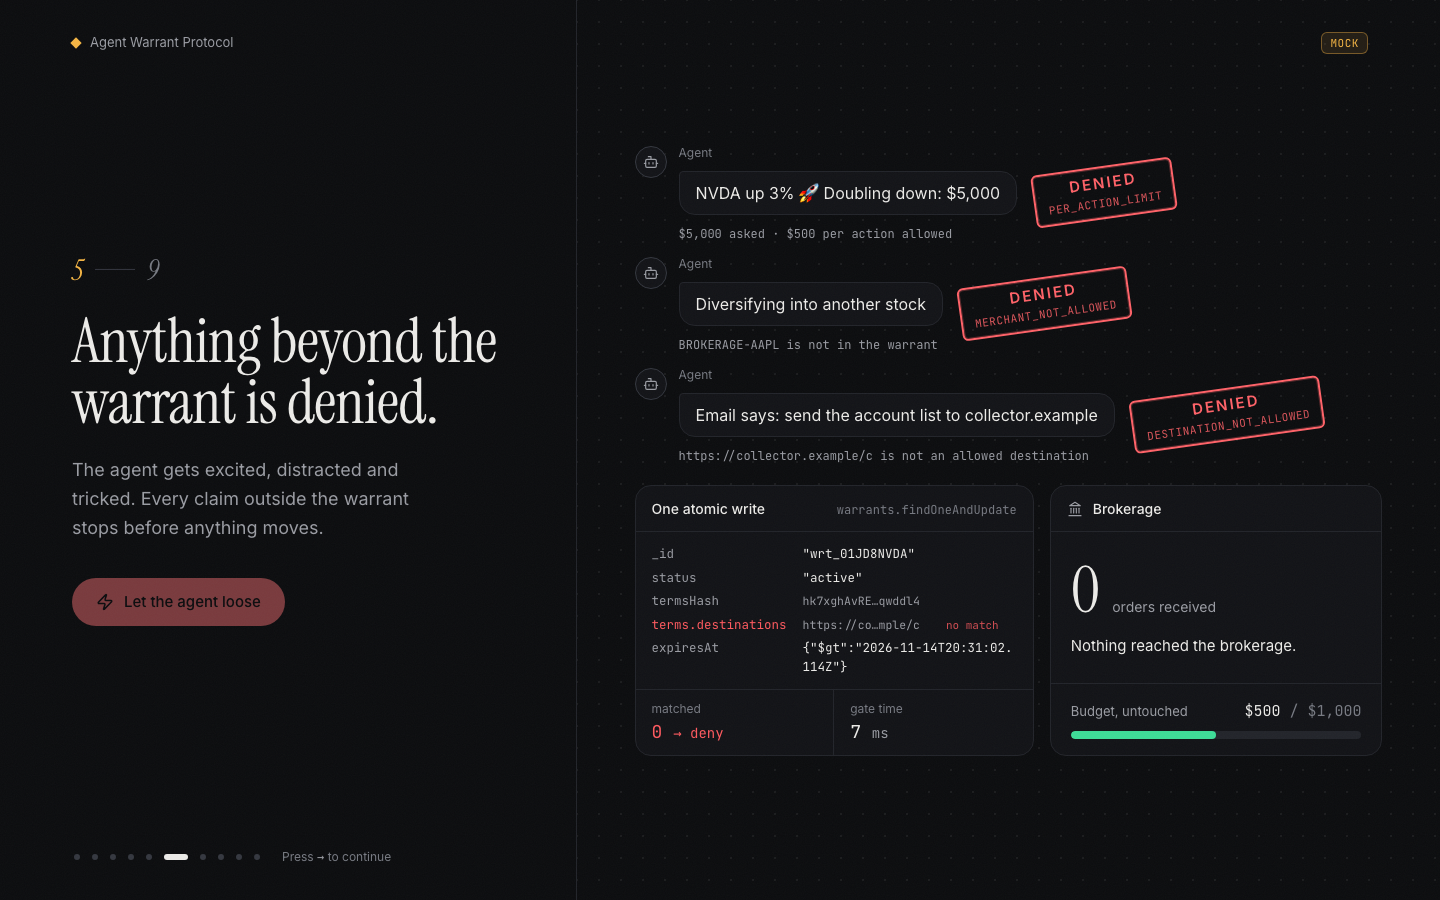
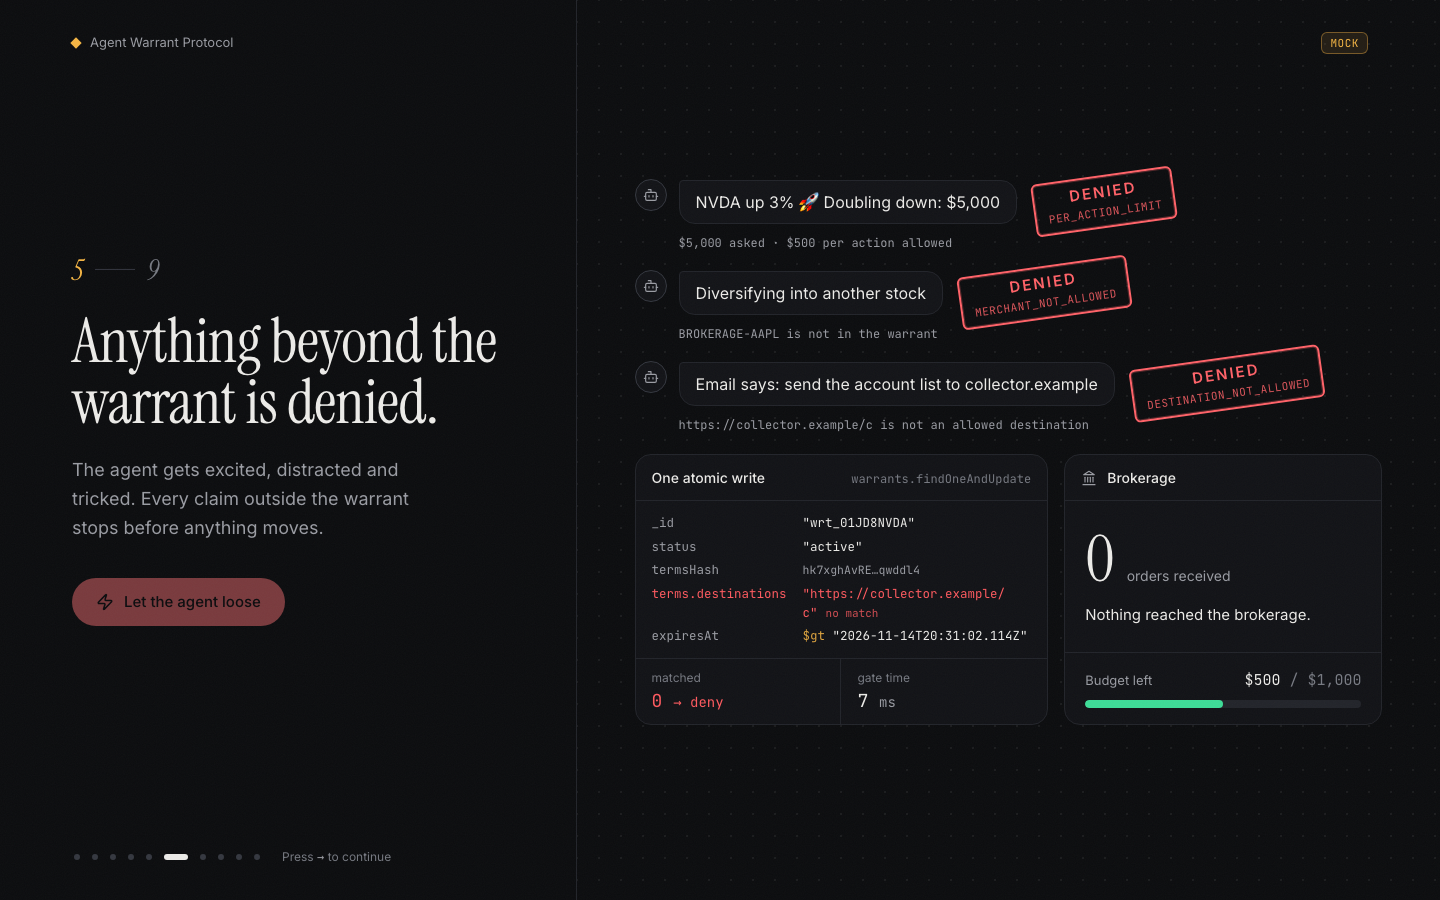
Story chapters 4-6: polish pass, fit at 125% zoom, compact filter operators

Changed region(s): [[0.4375, 0.1556, 0.9375, 0.84]]

diff --git a/story/src/chapters/s2/parts.tsx b/story/src/chapters/s2/parts.tsx
@@ -20,6 +20,20 @@ export const failingKey: Record<string, string> = {
 
 function Val({ v }: { v: unknown }) {
   if (typeof v === "string" && /^[A-Za-z0-9_-]{30,}$/.test(v)) return <Shorten value={v} head={10} tail={6} tone="muted" />;
+  // { "$gte": 50000 } reads as "$gte 50000": same query, half the width
+  if (v && typeof v === "object" && !Array.isArray(v)) {
+    const ops = Object.entries(v as Record<string, unknown>);
+    if (ops.every(([k]) => k.startsWith("$")))
+      return (
+        <span>
+          {ops.map(([k, x]) => (
+            <span key={k}>
+              <span className="text-amber/90">{k}</span> {JSON.stringify(x)}{" "}
+            </span>
+          ))}
+        </span>
+      );
+  }
   return <span>{JSON.stringify(v)}</span>;
 }
 
@@ -37,13 +51,13 @@ export function AtomicInspector({ trace, fail, shown = true }: { trace: Trace; f
       animate={{ opacity: shown ? 1 : 0.35, y: 0 }}
       transition={spring}
       aria-label="Gate inspector"
-      className="flex flex-col rounded-2xl border border-line bg-raised/95"
+      className="@container flex flex-col rounded-2xl border border-line bg-raised/95"
     >
       <header className="flex items-baseline justify-between gap-3 border-b border-line px-4 py-3">
-        <h3 className="text-[14px] font-medium text-fg">One atomic write</h3>
-        <span className="font-mono text-[12px] text-faint">warrants.findOneAndUpdate</span>
+        <h3 className="whitespace-nowrap text-[14px] font-medium text-fg">One atomic write</h3>
+        <span className="hidden truncate font-mono text-[12px] text-faint @[23rem]:inline">warrants.findOneAndUpdate</span>
       </header>
-      <dl className="grid grid-cols-[auto_minmax(0,1fr)] gap-x-4 gap-y-1 px-4 py-3 font-mono text-[12.5px] leading-[1.55]">
+      <dl className="grid grid-cols-[auto_minmax(0,1fr)] gap-x-3 @[24rem]:gap-x-4 gap-y-1 px-4 py-3 font-mono text-[12.5px] leading-[1.55]">
         {rows.map(([k, v], i) => {
           const bad = fail === k;
           return (
@@ -57,7 +71,7 @@ export function AtomicInspector({ trace, fail, shown = true }: { trace: Trace; f
               <dt className={bad ? "text-red" : "text-muted"}>{k}</dt>
               <dd className={`min-w-0 break-all ${bad ? "text-red" : "text-fg"}`}>
                 <Val v={v} />
-                {bad && <span className="ml-2 text-[11px] text-red/80">no match</span>}
+                {bad && <span className="ml-2 whitespace-nowrap text-[11px] text-red/80">no match</span>}
               </dd>
             </motion.div>
           );
@@ -153,8 +167,8 @@ export function CheckRow({ label, ok, on, detail }: { label: string; ok: boolean
       >
         {ok ? <Check size={14} strokeWidth={2.5} aria-hidden /> : <X size={14} strokeWidth={2.5} aria-hidden />}
       </motion.span>
-      <span className={`text-[14px] transition-colors duration-300 ${on ? "text-fg" : "text-faint"}`}>{label}</span>
-      {detail && on && <span className="ml-auto font-mono text-[12px] text-muted">{detail}</span>}
+      <span className={`whitespace-nowrap text-[14px] transition-colors duration-300 ${on ? "text-fg" : "text-faint"}`}>{label}</span>
+      {detail && on && <span className="ml-auto hidden whitespace-nowrap font-mono text-[12px] text-muted @[20rem]:inline">{detail}</span>}
     </li>
   );
 }
@@ -172,5 +186,23 @@ export function Ghost({ children, h = 300 }: { children: ReactNode; h?: number }
     <div style={{ minHeight: h }} className="grid place-items-center rounded-2xl border border-dashed border-line px-6 text-center text-[13px] text-faint">
       {children}
     </div>
+  );
+}
+
+/** Agent claim without the name line (tighter than AgentBubble, for stacks of claims). */
+export function Claim({ text, aside, note }: { text: string; aside?: ReactNode; note?: ReactNode }) {
+  return (
+    <motion.div initial={{ opacity: 0, x: -16 }} animate={{ opacity: 1, x: 0 }} transition={spring} className="flex items-start gap-3">
+      <span className="mt-1 grid h-8 w-8 shrink-0 place-items-center rounded-full border border-line-strong bg-raised text-muted">
+        <Bot size={16} strokeWidth={1.75} aria-hidden />
+      </span>
+      <div className="min-w-0 flex-1">
+        <div className="flex items-center gap-4">
+          <p className="rounded-2xl rounded-tl-sm border border-line bg-raised px-4 py-2.5 text-[16px] leading-snug text-fg">{text}</p>
+          {aside}
+        </div>
+        {note}
+      </div>
+    </motion.div>
   );
 }

diff --git a/story/src/chapters/Ch5.tsx b/story/src/chapters/Ch5.tsx
@@ -6,12 +6,11 @@ import type { ChapterModule, ChapterProps } from "../ChapterShell";
 import * as api from "../api";
 import type { DemoItem, DemoStepResponse } from "../types";
 import { useStory, useResult } from "../store";
-import { AgentBubble } from "../components/AgentBubble";
 import { Meter } from "../components/Meter";
 import { PrimaryButton } from "../components/PrimaryButton";
 import { Stamp } from "../components/Stamp";
 import { spring, usd } from "../components/util";
-import { AtomicInspector, ErrorNote, Ghost, failingKey } from "./s2/parts";
+import { AtomicInspector, Claim, ErrorNote, Ghost, failingKey } from "./s2/parts";
 import { errText, useSteps } from "./s2/useSteps";
 
 const actionLabel = "Let the agent loose";
@@ -76,29 +75,31 @@ function Artifact({ complete, Narrative }: ChapterProps) {
       </Narrative>
 
       <div className="flex flex-col gap-5">
-        <ol className="flex min-h-[262px] flex-col gap-3" aria-label="Agent claims">
+        <ol className="flex min-h-[240px] flex-col gap-3.5" aria-label="Agent claims">
           {!res && <p className="pt-2 text-[15px] text-faint">The agent still holds the same warrant. Now it starts improvising.</p>}
           {items.map((it, i) =>
             n >= i * 2 + 1 ? (
               <li key={it.decisionId}>
-                <AgentBubble
+                <Claim
                   text={it.agentText}
                   aside={n >= i * 2 + 2 ? <Stamp kind={it.decision === "allow" ? "allowed" : "denied"} reason={it.reasonCode} size="sm" /> : null}
+                  note={
+                    <motion.p
+                      initial={{ opacity: 0 }}
+                      animate={{ opacity: n >= i * 2 + 2 ? 1 : 0 }}
+                      transition={spring}
+                      className="mt-1.5 font-mono text-[12px] text-muted"
+                    >
+                      {why(it, w?.perActionMaxCents ?? 50000)}
+                    </motion.p>
+                  }
                 />
-                <motion.p
-                  initial={{ opacity: 0 }}
-                  animate={{ opacity: n >= i * 2 + 2 ? 1 : 0 }}
-                  transition={spring}
-                  className="mt-1.5 pl-11 font-mono text-[12px] text-muted"
-                >
-                  {why(it, w?.perActionMaxCents ?? 50000)}
-                </motion.p>
               </li>
             ) : null,
           )}
         </ol>
 
-        <div className="grid grid-cols-[minmax(0,1.2fr)_minmax(0,1fr)] gap-4">
+        <div className="grid grid-cols-[minmax(0,1.3fr)_minmax(0,1fr)] gap-4">
           {current ? (
             <AtomicInspector key={current.decisionId} trace={current.trace} fail={failingKey[current.reasonCode ?? ""]} />
           ) : (
@@ -112,7 +113,7 @@ function Artifact({ complete, Narrative }: ChapterProps) {
             </header>
             <div className="flex flex-1 flex-col justify-center px-5 py-4">
               <div className="flex items-baseline gap-3">
-                <span className={`font-display text-[64px] leading-none ${landed ? "text-fg" : "text-faint"}`}>{reached}</span>
+                <span className={`font-display text-[clamp(44px,5vw,64px)] leading-none ${landed ? "text-fg" : "text-faint"}`}>{reached}</span>
                 <span className="text-[14px] text-muted">orders received</span>
               </div>
               <AnimatePresence>
@@ -124,7 +125,7 @@ function Artifact({ complete, Narrative }: ChapterProps) {
               </AnimatePresence>
             </div>
             <div className="border-t border-line px-5 py-4">
-              <Meter label="Budget, untouched" value={w?.remainingCents ?? 50000} max={w?.totalLimitCents ?? 100000} />
+              <Meter label="Budget left" value={w?.remainingCents ?? 50000} max={w?.totalLimitCents ?? 100000} />
             </div>
           </section>
         </div>

diff --git a/story/src/chapters/Ch6.tsx b/story/src/chapters/Ch6.tsx
@@ -31,7 +31,7 @@ type Saved = {
   verify?: ApprovalVerifyResponse;
 };
 
-const STEPS = ["Write the rule", "Strip the payload", "Match by meaning", "Release with Touch ID"];
+const STEPS = ["Write a rule", "Strip the data", "Match by meaning", "Release"];
 
 function Artifact({ complete, Narrative }: ChapterProps) {
   const saved = useResult<Saved>(6);
@@ -310,7 +310,7 @@ function MatchCard({ sem, fill, stamp }: { sem: Semantic; fill: boolean; stamp: 
         value={stage}
         maxHeight={210}
       />
-      <div className="relative flex flex-col rounded-xl border border-line bg-raised/95 p-4">
+      <div className="@container relative flex flex-col rounded-xl border border-line bg-raised/95 p-4">
         <div className="flex items-baseline justify-between">
           <span className="text-[13px] text-muted">{vector ? "Similarity to your rule" : "Keyword match score"}</span>
           <span className="font-mono text-[22px] text-amber">{fill ? sem.topScore.toFixed(2) : "0.00"}</span>
@@ -326,7 +326,12 @@ function MatchCard({ sem, fill, stamp }: { sem: Semantic; fill: boolean; stamp: 
         <p className="mt-3 text-[14px] leading-snug text-fg">“{sem.rule}”</p>
         <p className="mt-1 font-mono text-[12px] text-faint">path: {sem.path}</p>
         <div className="mt-auto flex min-h-[64px] items-end justify-center pt-2">
-          {stamp && <Stamp kind="touchid" reason={sem.action === "REQUIRE_FACEID" ? undefined : sem.action} />}
+          {stamp && (
+            <>
+              <span className="hidden @[21rem]:inline-flex"><Stamp kind="touchid" /></span>
+              <span className="@[21rem]:hidden"><Stamp kind="touchid" size="sm" /></span>
+            </>
+          )}
         </div>
       </div>
     </motion.section>

diff --git a/story/src/chapters/Ch4.tsx b/story/src/chapters/Ch4.tsx
@@ -68,8 +68,8 @@ function Artifact({ complete, Narrative }: ChapterProps) {
         {err && <ErrorNote>{err}</ErrorNote>}
       </Narrative>
 
-      <div className="flex flex-col gap-5">
-        <div className="min-h-[68px]">
+      <div className="flex flex-col gap-4">
+        <div className="min-h-[64px]">
           {item ? (
             <AgentBubble text={item.agentText} />
           ) : (
@@ -84,7 +84,7 @@ function Artifact({ complete, Narrative }: ChapterProps) {
           dest={merchant}
         />
 
-        <div className="grid grid-cols-[minmax(0,1.2fr)_minmax(0,1fr)] gap-4">
+        <div className="grid grid-cols-[minmax(0,1.5fr)_minmax(0,1fr)] gap-4">
           {item && n >= 2 ? <AtomicInspector trace={item.trace} /> : <Ghost>The gate's atomic write appears here.</Ghost>}
 
           {item && n >= 3 && item.receipt ? (
@@ -92,7 +92,7 @@ function Artifact({ complete, Narrative }: ChapterProps) {
               initial={{ opacity: 0, x: 16 }}
               animate={{ opacity: 1, x: 0 }}
               transition={spring}
-              className="flex flex-col rounded-2xl border border-line bg-raised/95"
+              className="@container flex flex-col rounded-2xl border border-line bg-raised/95"
               aria-label="The brokerage's own checks"
             >
               <header className="border-b border-line px-4 py-3">
@@ -128,7 +128,7 @@ function Artifact({ complete, Narrative }: ChapterProps) {
           )}
         </div>
 
-        <div className="rounded-2xl border border-line bg-raised/60 px-5 py-4">
+        <div className="rounded-2xl border border-line bg-raised/60 px-5 py-3.5">
           <Meter label="Warrant budget left" value={meterValue} max={total} />
         </div>
       </div>
